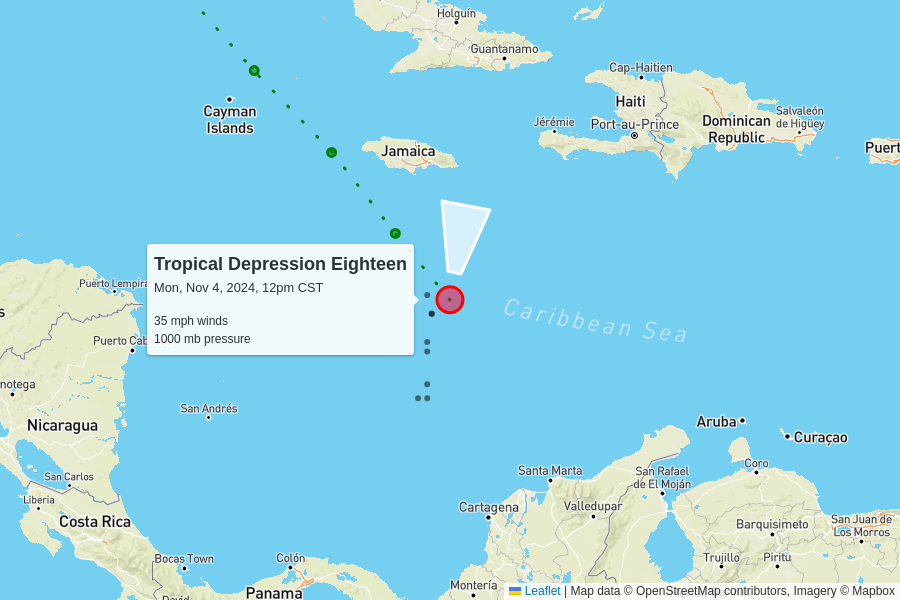
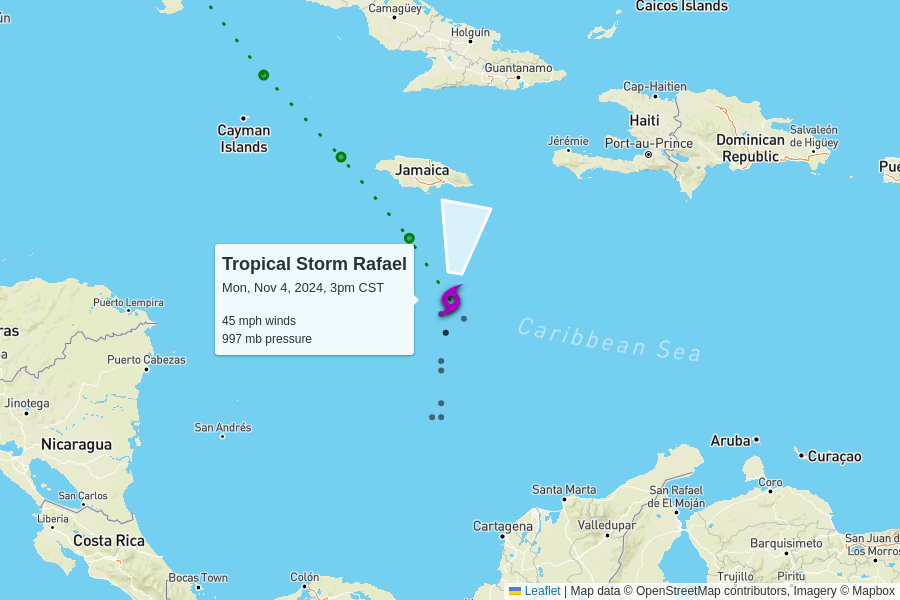
automatic update

diff --git a/docs/index.html b/docs/index.html
@@ -101,8 +101,8 @@
       <tr>
         <td colspan="6" class="storm category-0" >
           <h2>
-            Tropical Depression Eighteen
-            <p class="updated">last updated <span data-time>2024-11-04T18:00:00.000Z</span></p>
+            Tropical Storm Rafael
+            <p class="updated">last updated <span data-time>2024-11-04T21:00:00.000Z</span></p>
           </h2>
         </td>
       </tr>
@@ -117,15 +117,15 @@
       </tr>
       <tr>
         <td class="spacer"></td>
-        <td>35 mph<br>0 mph since last update</td>
-        <td>1000 mb<br>-3 mb since last update</td>
+        <td>45 mph<br>+10 mph since last update</td>
+        <td>997 mb<br>-3 mb since last update</td>
         <td>
           9 mph to the north
           <br/>
           <span style="display: inline-block; font-size: 1.5em; transform: rotate(10deg);">↑</span>
         </td>
         <td><a href="https://raw.githubusercontent.com/mgwalker/atlantic-hurricanes/main/data/csv/AL182024.csv">AL182024.csv</a></td>
-        <td><a href="https://www.nhc.noaa.gov/archive/2024/EIGHTEEN.shtml?">NHC advisories</a></td>
+        <td><a href="https://www.nhc.noaa.gov/archive/2024/RAFAEL.shtml?">NHC advisories</a></td>
       </tr>
       <tr id="storm_AL182024" >
         <td class="spacer">
